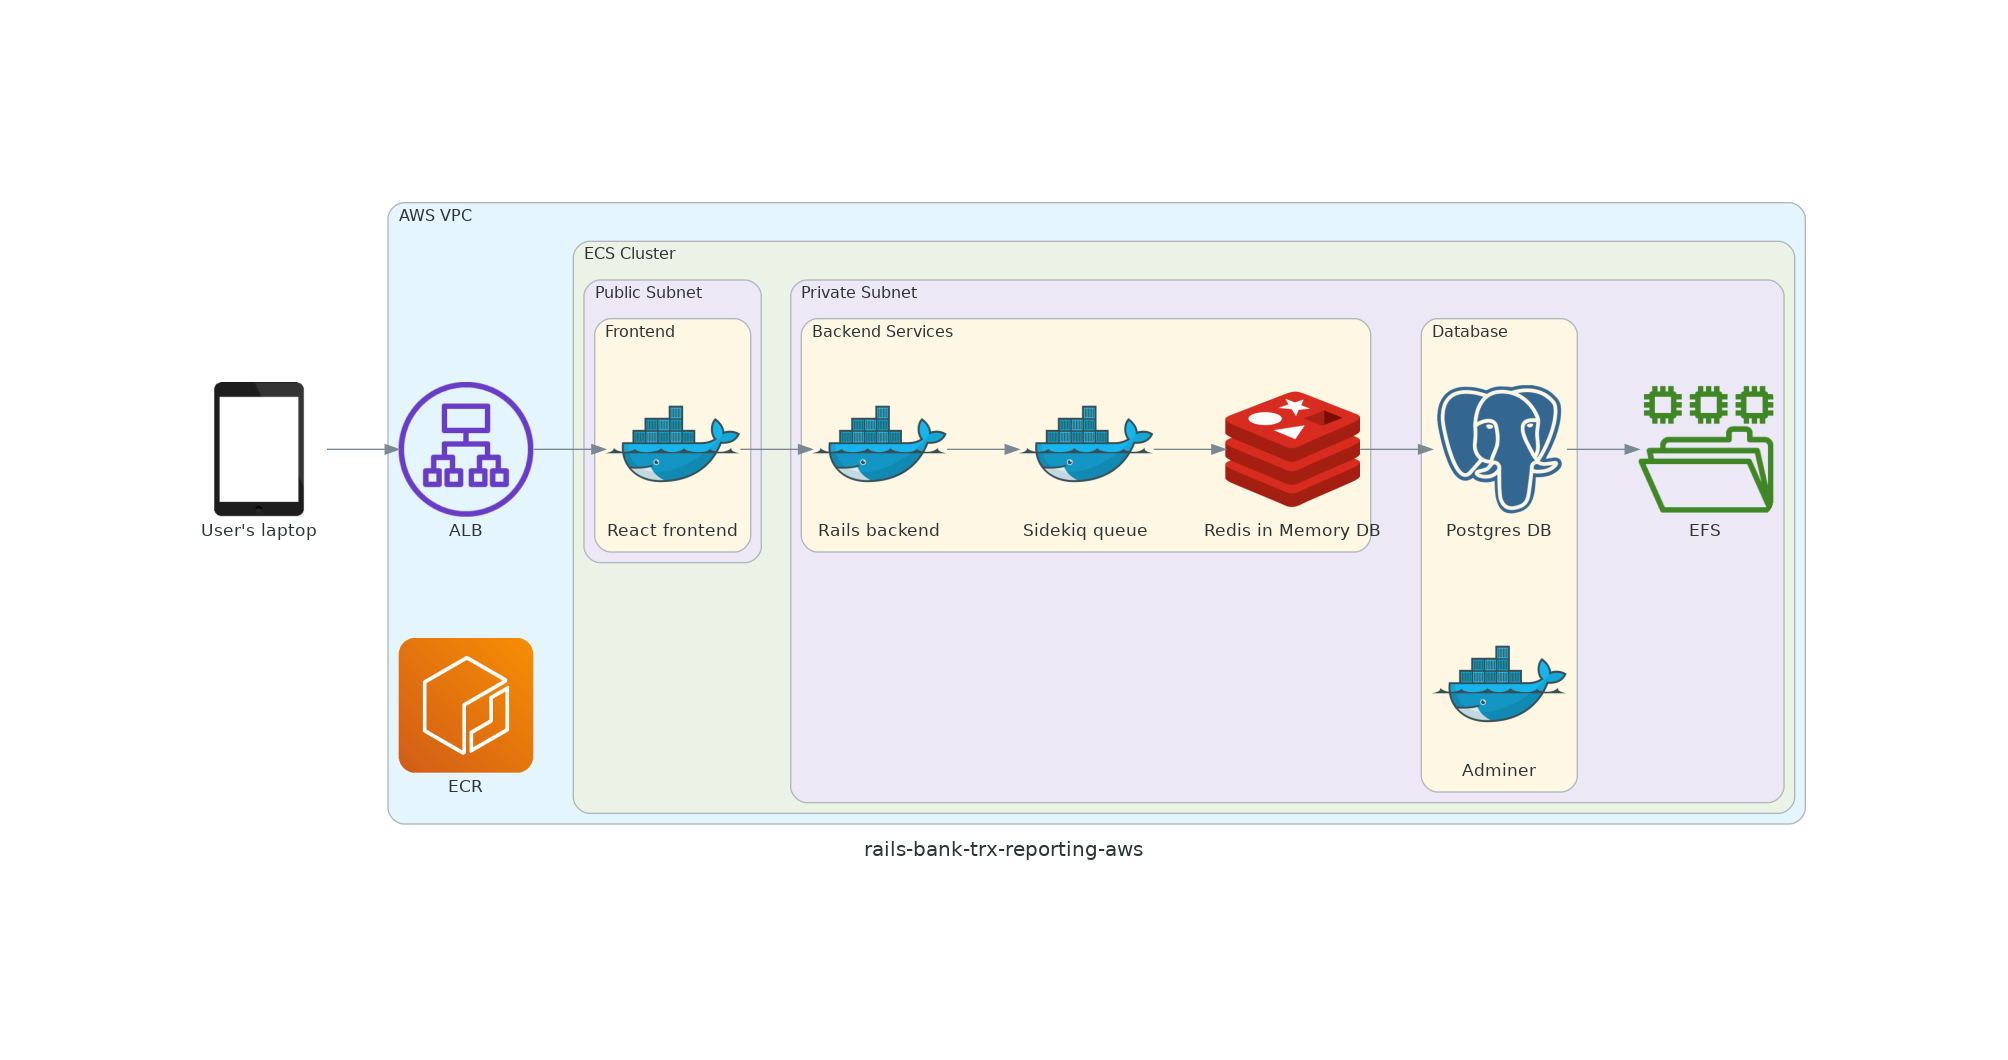
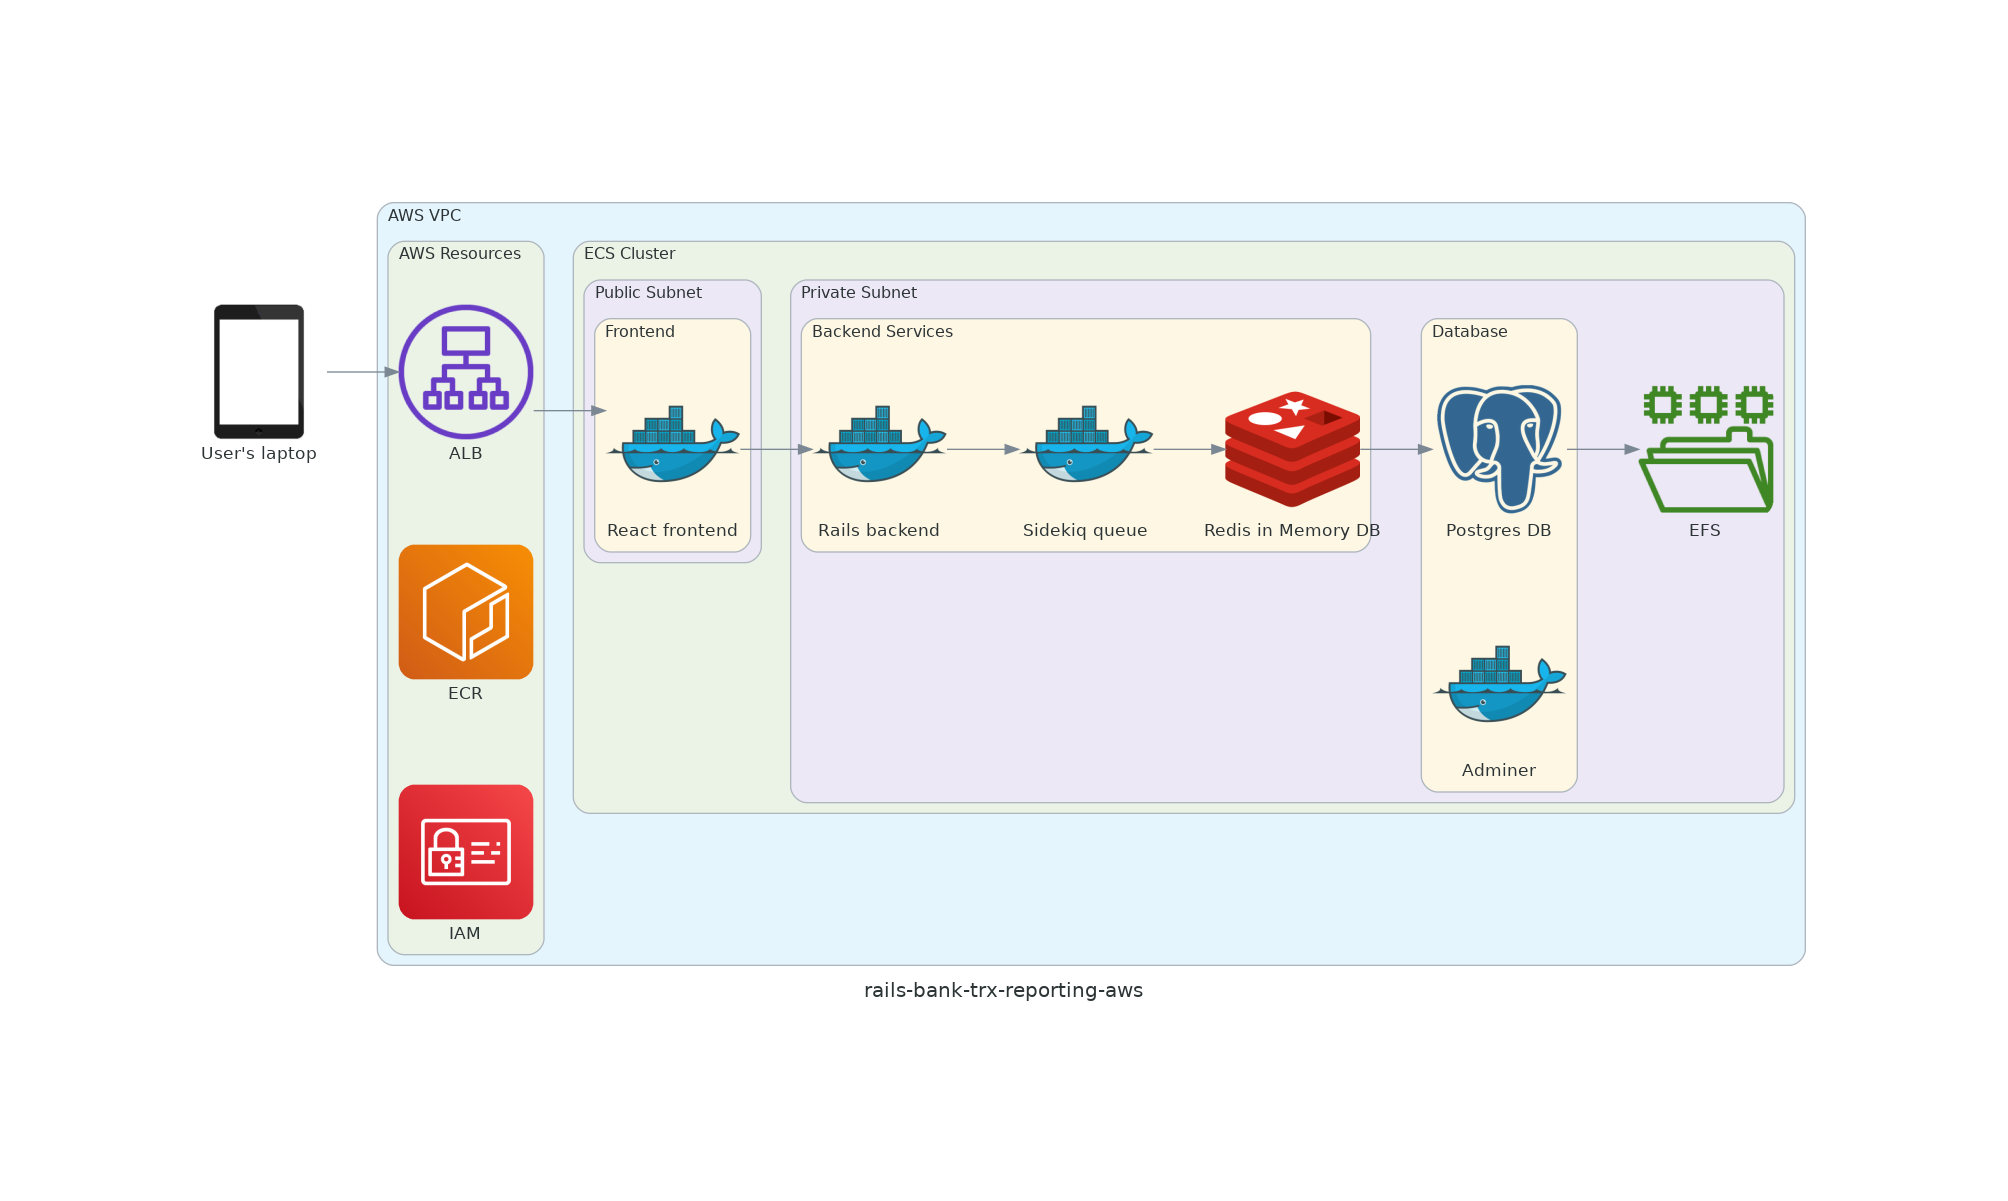
updated diagram

diff --git a/docs/aws-diagram.py b/docs/aws-diagram.py
@@ -6,13 +6,19 @@ from diagrams.aws.network import ElbApplicationLoadBalancer
 from diagrams.generic.device import Tablet
 from diagrams.aws.compute import EC2ContainerRegistry
 from diagrams.aws.storage import ElasticFileSystemEFSFileSystem
+from diagrams.aws.security import IAM
+from diagrams.aws.management import Cloudtrail, Cloudwatch
 
 with (Diagram("rails-bank-trx-reporting-aws", show=True)):
     User = Tablet("User's laptop")
 
     with Cluster("AWS VPC"):
-        ApplicationLoadBalancer = ElbApplicationLoadBalancer("ALB")
-        EC2ContainerRegistry = EC2ContainerRegistry("ECR")
+        with Cluster("AWS Resources"):
+            ApplicationLoadBalancer = ElbApplicationLoadBalancer("ALB")
+            EC2ContainerRegistry = EC2ContainerRegistry("ECR")
+            IAM = IAM("IAM")
+            # Cloudtrail = Cloudtrail("Cloudtrail")
+            # Cloudwatch = Cloudwatch("Cloudwatch")
 
         with Cluster("ECS Cluster"):
 
